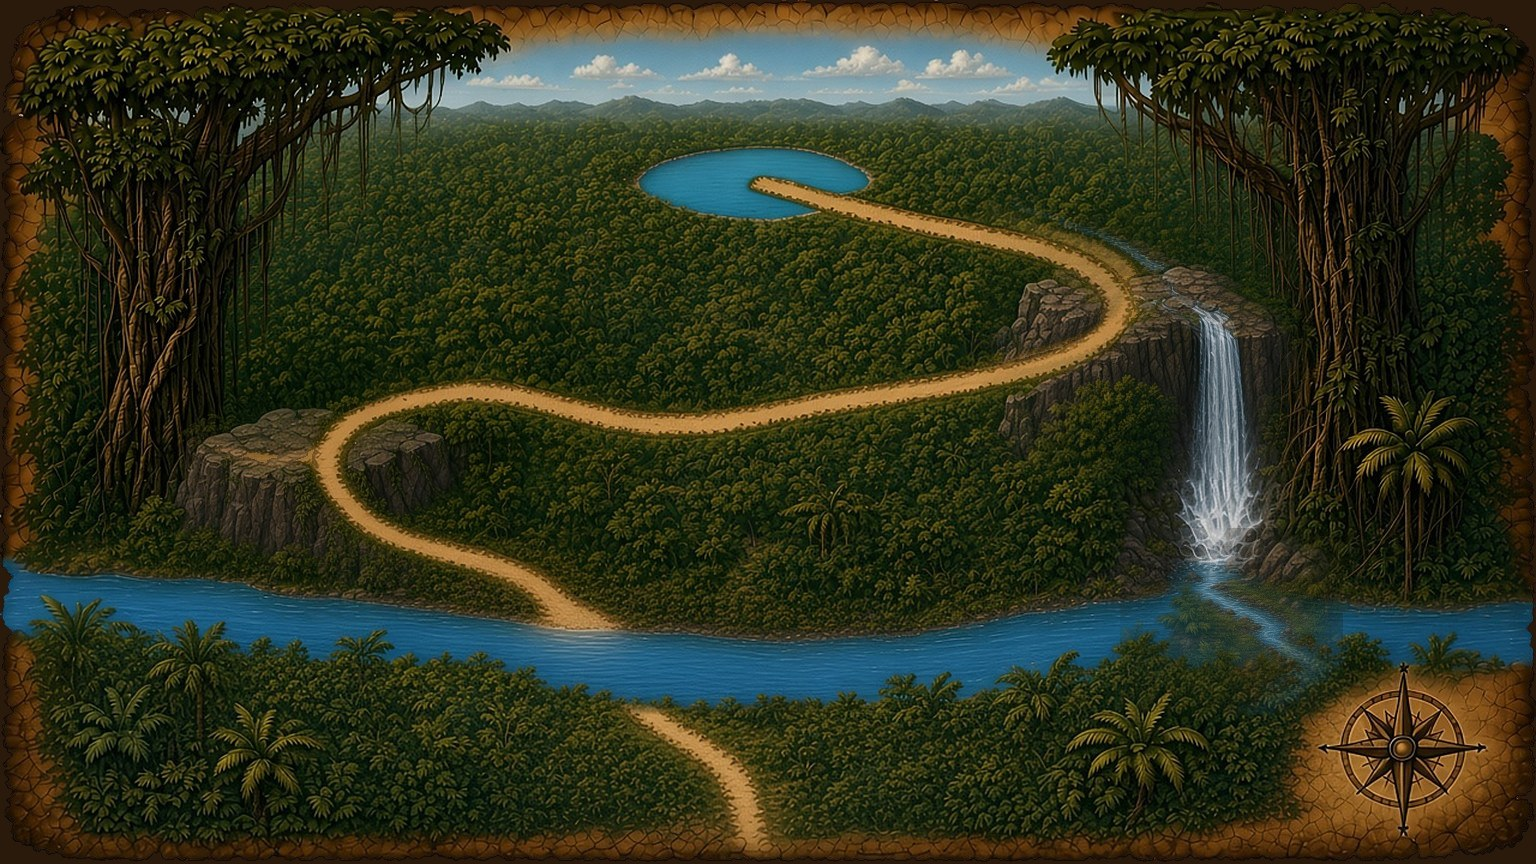
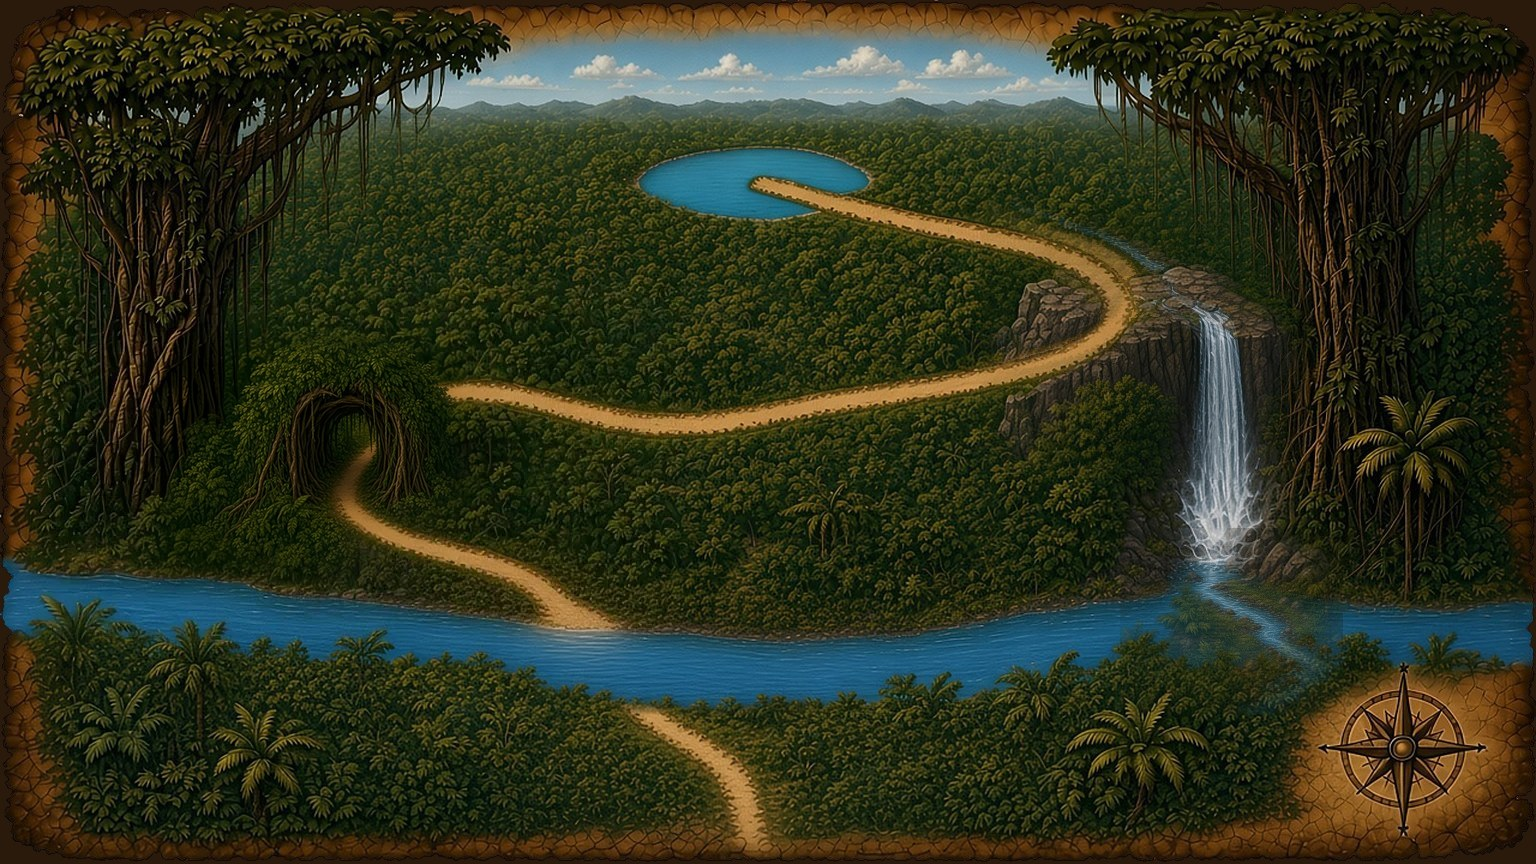
New level names on every map, header and level title (The Unspoken River, The Green Mouth, The Watching Ridge, The Far Light; The Still Ford, The Needle Gap, The Waiting Grass, The Shaking Hollow; The White Stair, The Held Breath, The Last Embers, The Long White); start/rendezvous labels kept. Jungl

Changed region(s): [[0.0938, 0.375, 0.3125, 0.6562]]

diff --git a/index.html b/index.html
@@ -932,7 +932,7 @@ body.ep-snow .cell.quo { position:relative; z-index:3; }
 <body>
 <div id="app">
   <header>
-    <div class="brand"><span class="mvm">MAN <i>vs.</i> MATH</span> <small id="h-lvname">Gator River</small></div>
+    <div class="brand"><span class="mvm">MAN <i>vs.</i> MATH</span> <small id="h-lvname">The Unspoken River</small></div>
     <div class="chips">
       <div class="chip"><span id="h-level">E1 · L1</span></div>
       <div class="pie timer" id="h-time" aria-label="Time left"><div class="wedge"></div><span class="tv">4:00</span></div>
@@ -2475,24 +2475,24 @@ const EP_INFO = [
     ] }
 ];
 const LV_INFO = [
-  { name: "Gator River", mapLabel: "The River", brief: "Solve 4 problems to swing over the gators!", winCap: "Across Gator River!", setup: "setup-l1", win: "win-l1", lose: "lose-l1" },
-  { name: "Boa Drop", mapLabel: "Boa Drop", brief: "Solve 4 problems to break free of the boa!", winCap: "Free of the boa!", setup: "setup-l2", win: "win-l2", lose: "lose-l2" },
-  { name: "Jaguar Ridge", mapLabel: "The Ridge", brief: "Solve 4 problems to escape the jaguar!", winCap: "What a leap!", setup: "setup-l3", win: "win-l3", lose: "lose-l3" },
-  { name: "The Great Escape", mapLabel: "The Lagoon", brief: "Solve 2 problems to outrun the river guardians!", winCap: "Escaped by seaplane!", setup: "setup-l4", win: "win-l4", lose: "lose-l4" }
+  { name: "The Unspoken River", mapLabel: "The Unspoken River", brief: "Solve 4 problems to swing over the gators!", winCap: "Across the Unspoken River!", setup: "setup-l1", win: "win-l1", lose: "lose-l1" },
+  { name: "The Green Mouth", mapLabel: "The Green Mouth", brief: "Solve 4 problems to break free of the boa!", winCap: "Free of the boa!", setup: "setup-l2", win: "win-l2", lose: "lose-l2" },
+  { name: "The Watching Ridge", mapLabel: "The Watching Ridge", brief: "Solve 4 problems to escape the jaguar!", winCap: "What a leap!", setup: "setup-l3", win: "win-l3", lose: "lose-l3" },
+  { name: "The Far Light", mapLabel: "The Far Light", brief: "Solve 2 problems to outrun the river guardians!", winCap: "Escaped by seaplane!", setup: "setup-l4", win: "win-l4", lose: "lose-l4" }
 ];
 const JUNGLE_PTS = EP_INFO[0].pts;
 const EP_LV = {
   1: [
-    { name: "Hippo River", mapLabel: "The River", brief: "Solve 4 problems to pole past the hippos!", winCap: "Across Hippo River!", setup: "setup-e2l1", win: "win-e2l1", lose: "lose-e2l1" },
-    { name: "Tightrope Gorge", mapLabel: "The Gorge", brief: "Solve 4 problems to cross the gorge before the leopard!", winCap: "Rope cut — gorge crossed!", setup: "setup-e2l2", win: "win-e2l2", lose: "lose-e2l2" },
-    { name: "Lion Crossing", mapLabel: "The Trail", brief: "Solve 4 problems to face down the lion!", winCap: "Lion Crossing conquered!", setup: "setup-e2l3", win: "win-e2l3", lose: "lose-e2l3" },
-    { name: "Buffalo Ravine", mapLabel: "The Ravine", brief: "Solve 2 problems to outrun the stampede!", winCap: "Escaped by safari truck!", setup: "setup-e2l4", win: "win-e2l4", lose: "lose-e2l4", loseLay: "left" }
+    { name: "The Still Ford", mapLabel: "The Still Ford", brief: "Solve 4 problems to pole past the hippos!", winCap: "Across the Still Ford!", setup: "setup-e2l1", win: "win-e2l1", lose: "lose-e2l1" },
+    { name: "The Needle Gap", mapLabel: "The Needle Gap", brief: "Solve 4 problems to cross the gorge before the leopard!", winCap: "Rope cut — gorge crossed!", setup: "setup-e2l2", win: "win-e2l2", lose: "lose-e2l2" },
+    { name: "The Waiting Grass", mapLabel: "The Waiting Grass", brief: "Solve 4 problems to face down the lion!", winCap: "The Waiting Grass conquered!", setup: "setup-e2l3", win: "win-e2l3", lose: "lose-e2l3" },
+    { name: "The Shaking Hollow", mapLabel: "The Shaking Hollow", brief: "Solve 2 problems to outrun the stampede!", winCap: "Escaped by safari truck!", setup: "setup-e2l4", win: "win-e2l4", lose: "lose-e2l4", loseLay: "left" }
   ],
   2: [
-    { name: "The Climb", mapLabel: "The Climb", brief: "Solve 4 problems to scramble up the scree!", winCap: "Over the top — camp and a snowboard!", setup: "setup-e3l1", win: "win-e3l1", lose: "lose-e3l1", loseLay: "mount" },
-    { name: "Avalanche Run", mapLabel: "The Slope", brief: "Solve 4 problems to outrun the avalanche!", winCap: "Avalanche dodged!", setup: "setup-e3l2", win: "win-e3l2", lose: "lose-e3l2" },
-    { name: "Campfire Wolves", mapLabel: "Campsite", brief: "Solve 4 problems to get that fire lit!", winCap: "The pack runs for it!", setup: "setup-e3l3", win: "win-e3l3", lose: "lose-e3l3" },
-    { name: "Wolf Chase", mapLabel: "The Summit", brief: "Solve 2 problems to reach the rescue helicopter!", winCap: "Rescued at the rendezvous!", setup: "setup-e3l4", win: "win-e3l4", lose: "lose-e3l4", loseSplit: true }
+    { name: "The White Stair", mapLabel: "The White Stair", brief: "Solve 4 problems to scramble up the scree!", winCap: "Over the top — camp and a snowboard!", setup: "setup-e3l1", win: "win-e3l1", lose: "lose-e3l1", loseLay: "mount" },
+    { name: "The Held Breath", mapLabel: "The Held Breath", brief: "Solve 4 problems to outrun the avalanche!", winCap: "Avalanche dodged!", setup: "setup-e3l2", win: "win-e3l2", lose: "lose-e3l2" },
+    { name: "The Last Embers", mapLabel: "The Last Embers", brief: "Solve 4 problems to get that fire lit!", winCap: "The pack runs for it!", setup: "setup-e3l3", win: "win-e3l3", lose: "lose-e3l3" },
+    { name: "The Long White", mapLabel: "The Long White", brief: "Solve 2 problems to reach the rescue helicopter!", winCap: "Rescued at the rendezvous!", setup: "setup-e3l4", win: "win-e3l4", lose: "lose-e3l4", loseSplit: true }
   ]
 };
 const LVS = ep => EP_LV[ep] || LV_INFO;
@@ -2693,8 +2693,10 @@ const Cine = (() => {
           const nm = isRv ? (E.rendezvous || Lv.mapLabel || Lv.name || ("Level " + n)) : (Lv.mapLabel || Lv.name || ("Level " + n));
           const st = n <= lv ? "done" : n === lv + 1 ? "cur" : "todo";
           const off = labs[n] || [0, 55];
-          const lx = MAP_PTS[n][0] + off[0], ly = MAP_PTS[n][1] + off[1];
           const tw = Math.max(120, nm.length * 11.5 + 28);
+          // side labels: keep the plaque clear of the level marker however long the name is
+          let ox = off[0]; if (ox && Math.abs(off[1]) < 40) { const need = tw / 2 + 32; if (Math.abs(ox) < need) ox = Math.sign(ox) * need; }
+          const lx = Math.max(tw / 2 + 24, Math.min(1536 - tw / 2 - 24, MAP_PTS[n][0] + ox)), ly = MAP_PTS[n][1] + off[1];
           svg += '<g class="mlab ' + (isRv ? "rv " : "") + st + '" transform="translate(' + lx + "," + ly + ')"><rect x="' + (-tw / 2) + '" y="-16" width="' + tw + '" height="32"/><text style="font-size:18px">' + nm.replace(/&/g, "&amp;").replace(/</g, "&lt;") + "</text></g>";
         }
         return svg;
